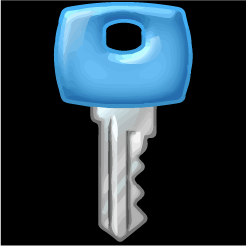
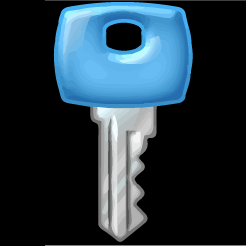
Modified Back Btn of Edit Map, Fixed key asset, fixed Hero Option on edit map

Changed region(s): [[0.0, 0.0, 0.1992, 1.0]]

diff --git a/gui/EditMapGraphicsPanel.java b/gui/EditMapGraphicsPanel.java
@@ -16,8 +16,10 @@ class EditMapGraphicsPanel extends JPanel{
 
 	private boolean hasKey;
 	private boolean hasHero;
+	private boolean hasWeapon;
 	private Point heroPos;
 	private Point keyPos;
+	private Point weaponPos;
 	private SpecialButton [][] buttonsArray;
 
 
@@ -35,9 +37,16 @@ class EditMapGraphicsPanel extends JPanel{
 		}
 		return null;
 	}
-
+	public Point getWeaponPos(){
+		if (weaponPos != null){
+			map[weaponPos.y][weaponPos.x] = ' ';
+			return (Point) weaponPos.clone();
+		}
+		return null;
+	}
 
 	EditMapGraphicsPanel(HashMap<Character,Image> hashImages){
+		hasWeapon = false;
 		hasKey = false;
 		hasHero = false;
 		imageMap = hashImages;
@@ -51,8 +60,6 @@ class EditMapGraphicsPanel extends JPanel{
 		addButtons();
 	}
 
-
-
 	private void addButtons(){
 		for (int i = 0; i < gl.getRows();i++){
 			for (int j = 0; j < gl.getColumns(); j++){
@@ -61,28 +68,32 @@ class EditMapGraphicsPanel extends JPanel{
 				j1.addActionListener(arg0 -> {
 					checkValidMap();
 					map[j1.getPosition().width][j1.getPosition().height] = ImageOptionsPanel.buttonPressed;
-					if (ImageOptionsPanel.buttonPressed == 'A'){heroPos = tempPoint;}
+					if (ImageOptionsPanel.buttonPressed == 'H'){heroPos = tempPoint;}
 					else if (ImageOptionsPanel.buttonPressed == 'k'){keyPos = tempPoint;}
+					else if (ImageOptionsPanel.buttonPressed == '/'){weaponPos = tempPoint;}
 					j1.setImage(imageMap.get(ImageOptionsPanel.buttonPressed));
-				});
-				add(j1);
-				buttonsArray[i][j] = j1;
+				}); add(j1); buttonsArray[i][j] = j1;
 			}
 		}
 	}
 
 	private void checkValidMap() {
-		if (ImageOptionsPanel.buttonPressed == 'A'){
+		char buttonPressed = ImageOptionsPanel.buttonPressed;
+		if (ImageOptionsPanel.buttonPressed == 'H'){
 			if (hasHero){
-				clearPreviousPosition('A');
-				clearPreviousButton('A');
-			}
-			else hasHero = true;
+				clearPreviousPosition(buttonPressed);
+				clearPreviousButton(buttonPressed);
+			}else hasHero = true;
 		}else if (ImageOptionsPanel.buttonPressed == 'k'){
 			if (hasKey){
-				clearPreviousPosition('k');
-				clearPreviousButton('k');
+				clearPreviousPosition(buttonPressed);
+				clearPreviousButton(buttonPressed);
 			}else hasKey = true;
+		}else if (ImageOptionsPanel.buttonPressed == '/'){
+			if (hasWeapon){
+				clearPreviousPosition(buttonPressed);
+				clearPreviousButton(buttonPressed);
+			}else hasWeapon = true;
 		}
 	}
 

diff --git a/gui/Game_GUI.java b/gui/Game_GUI.java
@@ -12,7 +12,7 @@ class Game_GUI {
 	private JButton btnBackSettings = new JButton("");
 	private SettingsPanel settingsPanel = new SettingsPanel(btnBackSettings);
 	private PlayPanel playPanel = new PlayPanel();
-	private EditMapPanel editMapPanel = new EditMapPanel();
+	
 	private CardLayout cl = new CardLayout();
 	private SpecialButton btnSettings = new SpecialButton();
 	private SpecialButton btnCreateMap = new SpecialButton();
@@ -21,7 +21,8 @@ class Game_GUI {
 	private JPanel menuPanel = new InitialMenuPanel(btnSettings,btnCreateMap,btnPlay,btnExit);
 	private JButton btnBackPlay = new JButton("Back");
 	
-	private JButton btnBackEditMap = new JButton("Back");
+	private JButton btnBackEditMap = new JButton("");
+	private EditMapPanel editMapPanel = new EditMapPanel(btnBackEditMap);
 	private Game game;
 	private Configs config;
 
@@ -59,7 +60,6 @@ class Game_GUI {
 		
 		containerPanel.setLayout(cl);
 		playPanel.add(btnBackPlay, BorderLayout.PAGE_END);
-		editMapPanel.add(btnBackEditMap, BorderLayout.PAGE_END);
 		containerPanel.add(menuPanel, "1"); // "1" is the identifing string
 		containerPanel.add(settingsPanel, "2");
 		containerPanel.add(editMapPanel, "3");
@@ -121,8 +121,7 @@ class Game_GUI {
 		btnBackPlay.addActionListener(arg0 -> {
 			cl.show(containerPanel, "1");
 			config.decreaseLevel();
-			Point heroPos = editMapPanel.getHeroPos(); Point keyPos = editMapPanel.getKeyPos();
-			config.setDungeonHeroAndKey(heroPos, keyPos);
+			config.setDungeonHeroKeyWeapon(editMapPanel.getHeroPos(), editMapPanel.getKeyPos(),editMapPanel.getWeaponPos());
 		});
 	}
 
@@ -136,7 +135,7 @@ class Game_GUI {
 	private void listenerbtnBackEditMap(){
 		btnBackEditMap.addActionListener(arg0 ->{
 			cl.show(containerPanel, "1");
-			config.setDungeonHeroAndKey(editMapPanel.getHeroPos(), editMapPanel.getKeyPos());
+			config.setDungeonHeroKeyWeapon(editMapPanel.getHeroPos(), editMapPanel.getKeyPos(),editMapPanel.getWeaponPos());
 
 		});
 	}

diff --git a/logic/Configs.java b/logic/Configs.java
@@ -15,7 +15,7 @@ import java.util.concurrent.ThreadLocalRandom;
 public class Configs {
     /**Contains information of number of ogres how will play on keep level;*/
     public int NUMBEROFOGRES = 1;
-    /**Contains information of that is guard personalty;*/
+    /**Contains information of that is guard personality;*/
     public int GUARDPERSONALITY = 0;
     /**Contains information of start position of hero for every level;*/
     private Point heroStartPoint;
@@ -23,11 +23,11 @@ public class Configs {
     private Point guardStartPoint;
     /**Contains information of start position of lever for dungeon level;*/
     private Point leverStartPoint;
-    /**Contains information of start position of key on keep level;*/
+    /**Contains information  about the Key start position on keep level;*/
     private Point keepKeyStartPoint;
-    /**Contains information of start position of Hero on keep level;*/
+    /**Contains information about the Hero start position on keep level;*/
     private Point keepHeroStartPoint;
-    /**Contains information of start position of Hero on keep level;*/
+    /**Contains information  about the Weapon start position on keep level;*/
     private Point keepWeaponStartPoint;
     /**Contains information about current level;*/
     private int level = 0;
@@ -108,9 +108,10 @@ public class Configs {
      * @param heroStart Point - to set the start position of Hero;
      * @param keyStart Point - to set the start position of Key;
      */
-    public void setDungeonHeroAndKey(Point heroStart,Point keyStart){
+    public void setDungeonHeroKeyWeapon(Point heroStart,Point keyStart, Point weaponStart){
         keepKeyStartPoint = keyStart;
         keepHeroStartPoint = heroStart;
+        keepWeaponStartPoint = weaponStart;
     }
 
     /* OTHERS METHODS */

diff --git a/gui/EditMapPanel.java b/gui/EditMapPanel.java
@@ -17,14 +17,15 @@ class EditMapPanel extends JPanel{
 	private EditMapGraphicsPanel editPanel;
 	private HashMap<Character,Image> imageMap = new HashMap<>();
 	private MapSizeSelectorPanel mapSizePanel;
-	
+	private JButton backBtn;
 	JSlider xSizeSlider = new JSlider();
 	JSlider ySizeSlider = new JSlider();
 	
 	private JPanel componentsPanel;
 
 	
-	EditMapPanel(){
+	EditMapPanel(JButton backBtn){
+		this.backBtn = backBtn;
 		init();
 	}
 
@@ -37,6 +38,9 @@ class EditMapPanel extends JPanel{
 	public Point getHeroPos(){
 		return editPanel.getHeroPos();
 	}
+	public Point getWeaponPos(){
+		return editPanel.getWeaponPos();
+	}
 
 	private void init(){
 		loadImages();
@@ -44,8 +48,16 @@ class EditMapPanel extends JPanel{
 		initEditPanel();
 		initComponentsPanel();
 		initMapSizePanel();
+		initBackButton();
 	}
 	
+	private void initBackButton() {
+		backBtn.setBackground(Color.BLACK);
+		backBtn.setIcon(new ImageIcon(SettingsPanel.class.getResource("/dkeep/assets/backBtn.png")));
+		add(backBtn,BorderLayout.SOUTH);
+		
+	}
+
 	public void initEditPanel(){
 		editPanel = new EditMapGraphicsPanel(imageMap);
 		editPanel.setBorder(new BevelBorder(BevelBorder.RAISED, null, null, null, null));

diff --git a/gui/ImageOptionsPanel.java b/gui/ImageOptionsPanel.java
@@ -33,7 +33,7 @@ class ImageOptionsPanel extends JPanel{
 		int i = 0;
 		for (HashMap.Entry<Character, Image> entry : images.entrySet() ){
 			char key = entry.getKey();
-			if (key == 'X' ||key == 'I' ||key == ' ' ||key == 'k' || key == 'A' || key == '/'){
+			if (key == 'X' ||key == 'I' ||key == ' ' ||key == 'k' || key == 'H' || key == '/'){
 			SpecialButton j1 = new SpecialButton(null,entry.getValue(),entry.getKey());
 			j1.addActionListener(e -> {
                 if (buttonPressed == j1.getType()){

diff --git a/gui/SettingsPanel.java b/gui/SettingsPanel.java
@@ -22,7 +22,6 @@ class SettingsPanel extends JPanel {
 	
 	private Configs conf = null;
 	private final Component rigidArea = Box.createRigidArea(new Dimension(20, 20));
-	private final JButton backBtn = new JButton("");
 	private String[] personalities = {"Rookie","Drunken","Suspicious"};
 	private String[] maps = {"Dungeon","Ogre Keep"};
 	GridBagLayout gridBagLayout = new GridBagLayout();
